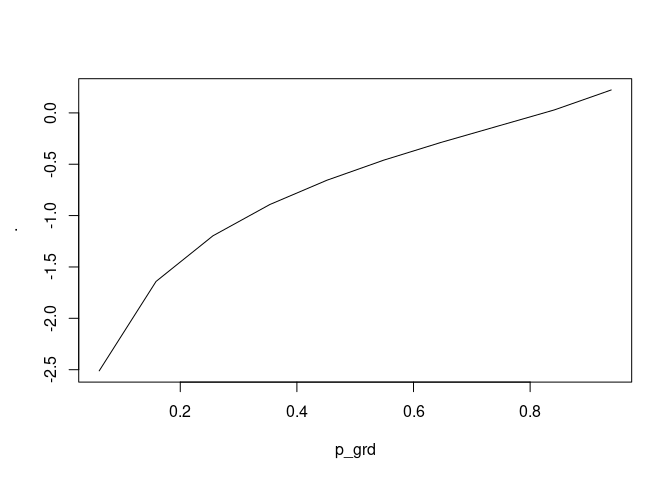
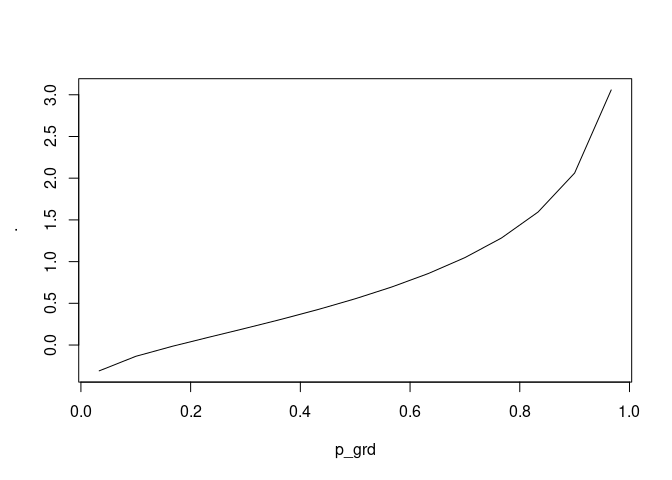
update mixing function

diff --git a/README.md b/README.md
@@ -55,7 +55,7 @@ In using and testing quantile function it is useful to have an
 equi-spaced grid of probabilities
 
 ``` r
-p_grd <- ppoints(10)
+p_grd <- ppoints(15)
 ```
 
 ### Exponential
@@ -73,7 +73,7 @@ s_exp
 #> function(u, ...){
 #>   -log(1-u)
 #> }
-#> <bytecode: 0x619a2e5b1a98>
+#> <bytecode: 0x55eb63abc408>
 #> <environment: namespace:gilchrist>
 ```
 
@@ -108,12 +108,14 @@ function in R.
 
 ``` r
 qf_exp(p_grd, lambda=10)
-#>  [1] 0.006291383 0.017261274 0.029584538 0.043642733 0.060005676 0.079580133
-#>  [7] 0.103942342 0.136219681 0.184176989 0.279728133
+#>  [1] 0.003390155 0.010536052 0.018232156 0.026570317 0.035667494 0.045675840
+#>  [7] 0.056798404 0.069314718 0.083624802 0.100330211 0.120397280 0.145528723
+#> [13] 0.179175947 0.230258509 0.340119738
 # compare to standard exponential quantile function. 
 qexp(p_grd, 10)
-#>  [1] 0.006291383 0.017261274 0.029584538 0.043642733 0.060005676 0.079580133
-#>  [7] 0.103942342 0.136219681 0.184176989 0.279728133
+#>  [1] 0.003390155 0.010536052 0.018232156 0.026570317 0.035667494 0.045675840
+#>  [7] 0.056798404 0.069314718 0.083624802 0.100330211 0.120397280 0.145528723
+#> [13] 0.179175947 0.230258509 0.340119738
 ```
 
 ### Logistic
@@ -134,11 +136,13 @@ qf_logistic <- s_exp %>%
   qff_decorate("mu", "s")
 
 qf_logistic(p_grd, mu=4, s=2)
-#>  [1] -1.4687350  0.6616857  1.8672971  2.7940078  3.6085108  4.3914892
-#>  [7]  5.2059922  6.1327029  7.3383143  9.4687350
+#>  [1] -2.7345917 -0.3944492  0.7811242  1.6208319  2.3054043  2.9069126
+#>  [7]  3.4634720  4.0000000  4.5365280  5.0930874  5.6945957  6.3791681
+#> [13]  7.2188758  8.3944492 10.7345917
 qlogis(p_grd, 4, 2)
-#>  [1] -1.4687350  0.6616857  1.8672971  2.7940078  3.6085108  4.3914892
-#>  [7]  5.2059922  6.1327029  7.3383143  9.4687350
+#>  [1] -2.7345917 -0.3944492  0.7811242  1.6208319  2.3054043  2.9069126
+#>  [7]  3.4634720  4.0000000  4.5365280  5.0930874  5.6945957  6.3791681
+#> [13]  7.2188758  8.3944492 10.7345917
 ```
 
 ### Flattened Skew-Logistic
@@ -156,16 +160,18 @@ the order in which they are listed in `qff_mix`.
 ``` r
 qf_fsld <- s_exp %>% 
   qff_reflect() %>%
-  qff_mix(s_exp, nm_wt="delta") %>% 
+  qff_cmix(s_exp, nm_wt="delta") %>% 
   qff_add(qff_scale(s_unif,"k")) %>% 
   qff_decorate(nm_location="alpha", nm_scale="beta")
 
 qf_fsld(p_grd, delta=0.21, alpha=4, beta=2, k=1)
-#>  [1]  3.046497  3.816258  4.407508  4.960314  5.516292  6.102903  6.751672
-#>  [8]  7.515821  8.520426 10.271329
+#>  [1] -1.292987  0.606167  1.578928  2.278908  2.847526  3.339955  3.783948
+#>  [8]  4.195949  4.587143  4.966375  5.342122  5.724743  6.131138  6.600616
+#> [15]  7.308272
 qpd::qfsld(p_grd, bt=2, k=1, dlt=0.21, a=4)
-#>  [1] -0.2713295  1.4795741  2.4841792  3.2483276  3.8970968  4.4837079
-#>  [7]  5.0396856  5.5924918  6.1837420  6.9535031
+#>  [1] -1.292987  0.606167  1.578928  2.278908  2.847526  3.339955  3.783948
+#>  [8]  4.195949  4.587143  4.966375  5.342122  5.724743  6.131138  6.600616
+#> [15]  7.308272
 ```
 
 ### Weibull
@@ -182,11 +188,13 @@ qf_weibull <- s_exp %>%
   qtr_lehmann1("k") %>% 
   qff_scale("lambda")
 qf_weibull(p_grd, lambda=2, k=4)
-#>  [1] 1.001651 1.289134 1.475014 1.625579 1.760265 1.888997 2.019427 2.160678
-#>  [9] 2.329908 2.586509
+#>  [1] 0.8581928 1.1394610 1.3068914 1.4359165 1.5456037 1.6441886 1.7362571
+#>  [8] 1.8248886 1.9125543 2.0016490 2.0950007 2.1966819 2.3139284 2.4636778
+#> [15] 2.7160512
 qweibull(p_grd, scale=2,  shape=4)
-#>  [1] 1.001651 1.289134 1.475014 1.625579 1.760265 1.888997 2.019427 2.160678
-#>  [9] 2.329908 2.586509
+#>  [1] 0.8581928 1.1394610 1.3068914 1.4359165 1.5456037 1.6441886 1.7362571
+#>  [8] 1.8248886 1.9125543 2.0016490 2.0950007 2.1966819 2.3139284 2.4636778
+#> [15] 2.7160512
 ```
 
 Therefore, you can compose new quantile functions following Gilchrist
@@ -251,7 +259,7 @@ the second (reflected `s_exp`) gets the weight $1-\delta$.
 ``` r
 qskewlogis <- s_exp %>% 
   qff_reflect() %>% 
-  qff_mix(s_exp, nm_wt="delta")
+  qff_cmix(s_exp, nm_wt="delta")
 
 qskewlogis(p_grd, delta=0.9) %>% plot(p_grd,., type="l")
 ```
@@ -306,25 +314,40 @@ qexp1(p_grd, lambda=2) %>% plot(p_grd,., type="l")
 Finally, `qff_decorate` adds both location and scale to a quantile
 function.
 
+``` r
+qlogistic <- s_exp %>%
+  qff_reflect() %>%
+  qff_add(s_exp) %>%
+  qff_decorate(nm_location = "mu", nm_scale = "s")
+
+all.equal(
+  qlogistic(p_grd, mu=3, s=2),
+  qlogis(p_grd, location = 3, scale=2)
+)
+#> [1] TRUE
+```
+
 ## Transformations
 
 `gilchrist` also implements several popular Q-transformations and
 p-transformations.
 
-### Power
+### Power (Lehmann transformations)
 
 Raising the quantile function to power results in a valid distribution
-only if the power is positive. Here’s Weibull, which is powered
-exponential.
+only if the power is positive. Here’s Weibull, which is Lehmann Type I
+transformed exponential.
 
 ``` r
 qweibull1 <- s_exp %>% 
   qtr_lehmann1("k") %>% 
   qff_scale("lambda")
-qweibull1(p_grd, lambda=2, k=3) %>% plot(p_grd,., type="l")
+
+qweibull1(p_grd, lambda=2, k=3) %>% 
+  plot(p_grd,., type="l")
 ```
 
-<img src="man/figures/README-unnamed-chunk-15-1.png" width="100%" />
+<img src="man/figures/README-unnamed-chunk-16-1.png" width="100%" />
 
 The analogous function exists for p-transforming the quantile function,
 i.e. raising the depth $u$ to the power $.pow$ (or its inverse).
@@ -335,7 +358,9 @@ these transformations become:
 
 $$
 H(u)=u^\frac{1}{\alpha}
-$$ and
+$$
+
+and
 
 $$
 H(u)=1-(1-u)^\frac{1}{\beta}
@@ -389,7 +414,7 @@ qeik(p_grd, alpha=4,beta=5, lambda=6) %>%
   plot(p_grd,.,type="l")
 ```
 
-<img src="man/figures/README-unnamed-chunk-17-1.png" width="100%" />
+<img src="man/figures/README-unnamed-chunk-18-1.png" width="100%" />
 
 ### Exponentiation
 
@@ -424,7 +449,7 @@ than a parameter.
 The p-transformation proposed in Kavya and Manoharan (2021)
 
 $$
-T(y)=-\ln\left(1-y\frac{e-1}{e}\right)
+H(u)=-\ln\left(1-u\frac{e-1}{e}\right)
 $$
 
 The authors apply this p-transformation to Weibuill distribution
@@ -439,7 +464,7 @@ qf_KMweibull(p_grd, lambda=3, k=4)%>%
   plot(p_grd,., type="l")
 ```
 
-<img src="man/figures/README-unnamed-chunk-19-1.png" width="100%" />
+<img src="man/figures/README-unnamed-chunk-20-1.png" width="100%" />
 
 ### $\varepsilon$-transformation
 
@@ -447,7 +472,7 @@ Unit transformation described by Bakouch et al. (2023) for positive
 distributions.
 
 $$
-T(x)=\frac{(1+x)^{1/\beta}-1}{(1+x)^{1/\beta}+1}
+T(u)=\frac{(1+u)^{1/\beta}-1}{(1+u)^{1/\beta}+1}
 $$
 
 In particular they present the unit exponential QF as
@@ -471,13 +496,13 @@ qs <- qupareto(p_grd, 3, 0.1)
 plot(p_grd, qs, type="l")
 ```
 
-<img src="man/figures/README-unnamed-chunk-21-1.png" width="100%" />
+<img src="man/figures/README-unnamed-chunk-22-1.png" width="100%" />
 
 Finally, we can apply the DUS-transformation proposed by Kumar, Singh,
 and Singh (2015)
 
 $$
-T(x)=\ln(1-x+ex)
+H(u)=\ln(1-u+eu)
 $$
 
 The authors used it to transform exponential distribution
@@ -492,7 +517,7 @@ plot(p_grd, qs, type="l")
 lines(p_grd, qexp(p_grd, 0.5), col=2)
 ```
 
-<img src="man/figures/README-unnamed-chunk-22-1.png" width="100%" />
+<img src="man/figures/README-unnamed-chunk-23-1.png" width="100%" />
 
 ### Modi-transformation
 
@@ -509,11 +534,13 @@ qmodiexpexp1 <- function(u, lambda, alpha, beta, delta){
 }
 
 qmodiexpexp(p_grd, lambda=3, alpha=2, beta=0.1, delta=5)
-#>  [1]  2.103170  2.872580  3.468606  4.031320  4.613770  5.258616  6.021092
-#>  [8]  6.999446  8.429094 11.268667
+#>  [1]  1.768450  2.452959  2.925599  3.335142  3.722179  4.106920  4.503626
+#>  [8]  4.925483  5.387532  5.909832  6.522736  7.278248  8.280512  9.797473
+#> [15] 13.069582
 qmodiexpexp1(p_grd, lambda=3, alpha=2, beta=0.1, delta=5)
-#>  [1] 0.2336856 0.3191756 0.3854007 0.4479244 0.5126411 0.5842906 0.6690102
-#>  [8] 0.7777162 0.9365660 1.2520741
+#>  [1] 0.1964944 0.2725510 0.3250666 0.3705714 0.4135754 0.4563245 0.5004029
+#>  [8] 0.5472759 0.5986147 0.6566480 0.7247485 0.8086942 0.9200569 1.0886081
+#> [15] 1.4521758
 ```
 
 ## Other examples
@@ -521,7 +548,7 @@ qmodiexpexp1(p_grd, lambda=3, alpha=2, beta=0.1, delta=5)
 Interesting “bathtube-shaped” distribution proposed by Muhammad (2023)
 
 $$
-Q(u)=\theta\exp\left[\frac{1}{\beta}(1-u^{-\frac{1}{\alpha}})\right]
+Q(u)=\theta\exp\left[\frac{1}{\beta}\left(1-u^{-\frac{1}{\alpha}}\right)\right]
 $$
 
 ``` r
@@ -537,7 +564,7 @@ qmuhammad <- s_unif %>%
 qmuhammad(runif(1e3), theta=2, beta=7, alpha=0.7) %>% hist(50)
 ```
 
-<img src="man/figures/README-unnamed-chunk-24-1.png" width="100%" />
+<img src="man/figures/README-unnamed-chunk-25-1.png" width="100%" />
 
 Fréchet is Reciprocate transform of Weibull. Weibull is power transform
 of Exponential.
@@ -555,7 +582,7 @@ qfrechet <- s_exp %>%
 qfrechet(p_grd, m=0, s=1, alpha=5)%>%plot(p_grd, ., type="l")
 ```
 
-<img src="man/figures/README-unnamed-chunk-25-1.png" width="100%" />
+<img src="man/figures/README-unnamed-chunk-26-1.png" width="100%" />
 
 What other cool transformations do you know? Please let me know!
 
